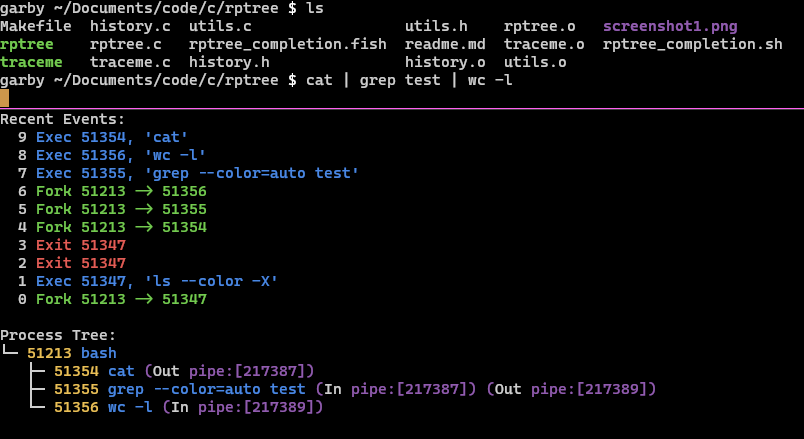
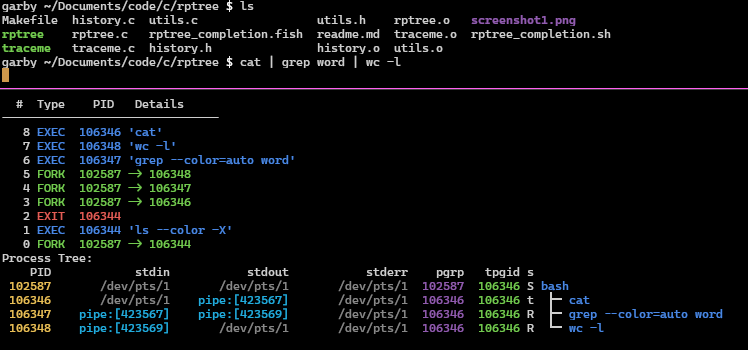
tree view now made of configable columns

Changed region(s): [[0.0, 0.0, 1.0, 0.9714]]

diff --git a/utils.c b/utils.c
@@ -151,51 +151,124 @@ void get_stdfds(pid_t pid, char **links, const size_t bufsz) {
   }
 }
 
-void print_pid_info(pid_t pid) {
-  static const char *fdsymbs[] = {"In", "Out", "Err"};
+int important_file(const char *fname) {
+  return strncmp(fname, "pipe:", 5) == 0;
+}
 
-  printf(C_YELLOW "%d" C_RESET, pid);
+struct proc_stat {
+  pid_t pid;
+  char state;
+  pid_t ppid;
+  pid_t pgrp;
+  int session;
+  int tty_nr;
+  pid_t tpgid;
+};
 
-  // Print process's cmdline args
-  printf(" " C_BLUE);
-  print_proc_cmdline(pid);
-  printf(C_RESET);
+struct proc_stat read_stat(pid_t pid) {
+  char fnbuf[48];
+  struct proc_stat ret = {0};
+  snprintf(fnbuf, sizeof(fnbuf), "/proc/%d/stat", pid);
+  FILE *f = fopen(fnbuf, "r");
+  if (!f)
+    return ret;
 
+  fscanf(f, "%d %*s %c %d %d %d %d %d", &ret.pid, &ret.state, &ret.ppid,
+         &ret.pgrp, &ret.session, &ret.tty_nr, &ret.tpgid);
+
+  return ret;
+}
+
+#define FILE_COLOUR(fname) (important_file(fname) ? C_CYAN : C_DIM)
+
+int col_widths[] = {7, 16, 16, 16, 7, 7, 1};
+
+const char *col_titles[] = {"PID",   "stdin", "stdout",  "stderr", "pgrp",
+                            "tpgid", "state"};
+
+void print_pid_info(pid_t pid, int colspec) {
+  static const char *fdsymbs[] = {" in=", "out=", "err="};
   // Print process's std file descriptors
   char **fdlinks = malloc(sizeof(char *) * 3);
   for (int i = 0; i < 3; i++) {
     fdlinks[i] = malloc(17);
   }
   get_stdfds(pid, fdlinks, 16);
+  struct proc_stat stat = read_stat(pid);
+
+  if ((colspec >> COL_PID) & 1) {
+    printf(C_YELLOW "%*d " C_RESET, col_widths[COL_PID], pid);
+  }
+  if ((colspec >> COL_STDIN) & 1) {
+    printf("%s%*.*s " C_RESET, FILE_COLOUR(fdlinks[STDIN_FILENO]),
+           col_widths[COL_STDIN], col_widths[COL_STDIN], fdlinks[STDIN_FILENO]);
+  }
+  if ((colspec >> COL_STDOUT) & 1) {
+    printf("%s%*.*s " C_RESET, FILE_COLOUR(fdlinks[STDOUT_FILENO]),
+           col_widths[COL_STDOUT], col_widths[COL_STDOUT],
+           fdlinks[STDOUT_FILENO]);
+  }
+  if ((colspec >> COL_STDERR) & 1) {
+    printf("%s%*.*s " C_RESET, FILE_COLOUR(fdlinks[STDERR_FILENO]),
+           col_widths[COL_STDERR], col_widths[COL_STDERR],
+           fdlinks[STDERR_FILENO]);
+  }
+  if ((colspec >> COL_PGRP) & 1) {
+    printf(C_MAGENTA "%*d " C_RESET, col_widths[COL_PGRP], stat.pgrp);
+  }
+  if ((colspec >> COL_TPGID) & 1) {
+    printf(C_GREEN "%*d " C_RESET, col_widths[COL_TPGID], stat.tpgid);
+  }
+  if ((colspec >> COL_STATE) & 1) {
+    printf("%*c ", col_widths[COL_STATE], stat.state);
+  }
+
   for (int i = 0; i < 3; i++) {
-    // Only print pipe fds
-    if (CFG_SHOW_ALL_STDFD || strncmp(fdlinks[i], "pipe:", 5) == 0) {
-      printf(C_MAGENTA " (" C_RESET "%s" C_MAGENTA " %s)" C_RESET, fdsymbs[i],
-             fdlinks[i]);
-    }
     free(fdlinks[i]);
   }
   free(fdlinks);
 }
 
-void treeprint_impl(tree *root, const char *pref, int edge) {
+void treeprint_impl(tree *root, const char *pref, int edge, int colspec) {
   if (!root)
     return;
 
-  printf("%s%s", pref, edge ? "└─ " : "├─ ");
-  print_pid_info(root->pid);
+  print_pid_info(root->pid, colspec);
+  if (edge == -1) {
+    printf("%s", pref);
+  } else {
+    printf(" %s%s", pref, edge ? "└─ " : "├─ ");
+  }
+
+  // Print process's cmdline args
+  printf(C_BLUE);
+  print_proc_cmdline(root->pid);
+  printf(C_RESET);
+
   printf("\n");
 
   char new_pref[256];
-  snprintf(new_pref, sizeof(new_pref), "%s%s", pref, edge ? "   " : "|  ");
+  snprintf(new_pref, sizeof(new_pref), "%s%s", pref,
+           edge == -1 ? ""
+           : edge     ? "   "
+                      : "|  ");
 
   LL_FOREACH(&root->children, el) {
     tree *subtree = el->data;
-    treeprint_impl(subtree, new_pref, !el->next);
+    treeprint_impl(subtree, new_pref, !el->next, colspec);
   }
 }
 
-void treeprint(tree *root) { treeprint_impl(root, "", 1); }
+void treeprint(tree *root, int colspec) {
+  for (int i = 0; i < N_COL_TYPES; i++) {
+    if ((colspec >> i) & 1) {
+      printf("%*.*s ", col_widths[i], col_widths[i], col_titles[i]);
+    }
+  }
+  printf("\n");
+
+  treeprint_impl(root, "", -1, colspec);
+}
 
 tree *treefind(tree *root, pid_t pid) {
   if (!root)

diff --git a/rptree.c b/rptree.c
@@ -17,7 +17,7 @@ void screenfull(tree *root) {
   printf("\033[2J\033[H"); // Clear terminal and jump to top
   print_history();
   printf("Process Tree:\n");
-  treeprint(root);
+  treeprint(root, ~0);
 }
 
 void usage(const char *exe) {
@@ -35,19 +35,6 @@ int main(int argc, char *argv[]) {
   if (strcmp(argv[1], "-s") == 0) {
     fprintf(stderr, "Not implemented yet...\n");
     exit(EXIT_FAILURE);
-    // printf("Executing '%s'\n", argv[2]);
-    // pid = fork();
-    // if (pid == 0) {
-    //   if (ptrace(PTRACE_TRACEME, 0, NULL, NULL) == -1) {
-    //     perror("ptrace TRACEME");
-    //     exit(EXIT_FAILURE);
-    //   }
-    //   if (execvp(argv[2], &argv[2]) == -1) {
-    //     perror("execvp");
-    //     exit(EXIT_FAILURE);
-    //   }
-    // }
-    // printf("Will trace child, pid = %d\n", pid);
   } else {
     if (argc > 2) {
       fprintf(stderr, "Too many arguments.\n");

diff --git a/utils.h b/utils.h
@@ -12,7 +12,16 @@
 #define C_RESET "\033[0m"
 #define C_DIM "\033[2m"
 
-#define CFG_SHOW_ALL_STDFD 1
+enum {
+  COL_PID,
+  COL_STDIN,
+  COL_STDOUT,
+  COL_STDERR,
+  COL_PGRP,
+  COL_TPGID,
+  COL_STATE,
+  N_COL_TYPES
+};
 
 struct ll_node {
   void *data;
@@ -34,8 +43,7 @@ void *ll_pop_front(ll_list *list);
 unsigned long ll_len(ll_list *list);
 
 tree *mksubtree(pid_t pid);
-void treeprint_impl(tree *root, const char *pref, int edge);
-void treeprint(tree *root);
+void treeprint(tree *root, int colspec);
 tree *treefind(tree *root, pid_t pid);
 void treefree(tree *root);
 void treedel(tree *root, pid_t pid);

diff --git a/history.h b/history.h
@@ -1,7 +1,7 @@
 #ifndef __INCLUDE_HISTORY_H__
 #define __INCLUDE_HISTORY_H__
 
-#define HISTORY_SZ 25
+#define HISTORY_SZ 12
 
 #include <unistd.h>
 
